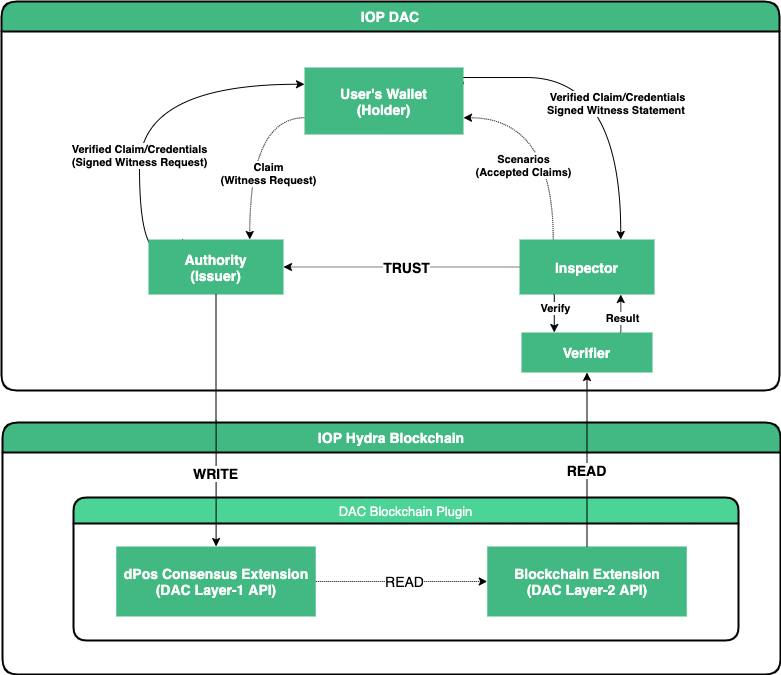
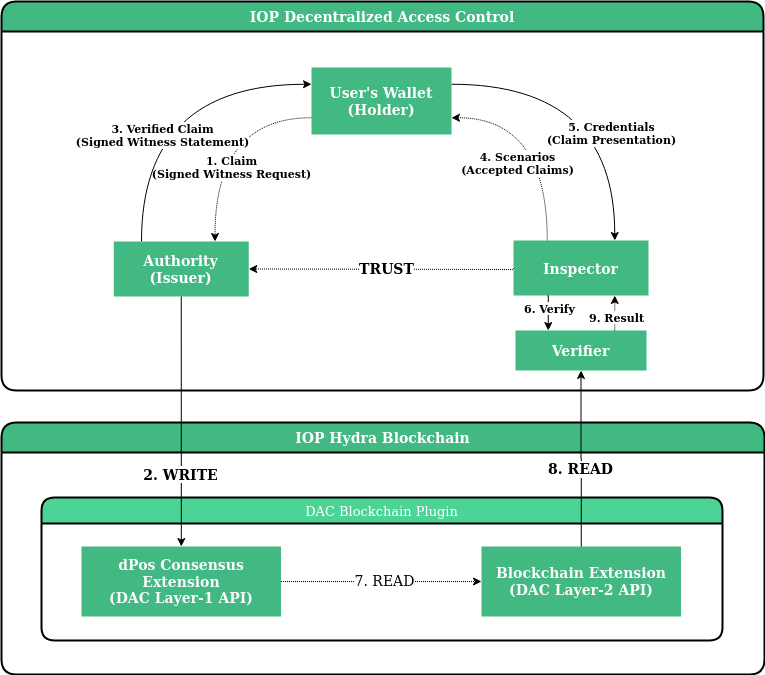
Fixed Dart comments/replaced img get Started

diff --git a/sdk/builders/flutter/dac_contract/test/main_test.dart b/sdk/builders/flutter/dac_contract/test/main_test.dart
@@ -10,6 +10,7 @@ import 'package:flutter_test/flutter_test.dart';
 import 'dart:convert';
 import 'dart:typed_data';
 
+// Import the necessary modules from our SDK
 import 'package:iop_sdk/crypto.dart';
 import 'package:iop_sdk/layer1.dart';
 import 'package:iop_sdk/layer2.dart';
@@ -19,26 +20,34 @@ import 'package:iop_sdk/network.dart';
 void main() {
   test('DAC Contract - Before Proof', () async {
 ///###FLUTTER_STEP_2
+// Select the testnet
 final network = Network.TestNet;
+
+// These details give access to a pre-generated account that pay the gas for the transaction
 final hydraGasPassphrase = 'scout try doll stuff cake welcome random taste load town clerk ostrich';
[1 lines of base64/hex data omitted]
 final unlockPassword = '+*7=_X8<3yH:v2@s';
 ///###FLUTTER_STEP_2
 
 ///###FLUTTER_STEP_3
-// YOU HAVE TO SAVE IT TO A SAFE PLACE!
+// YOU HAVE TO SAVE THE PASSPHRASE SECURELY!
 final phrase = Bip39('en').generatePhrase();
+
+// Creates a new vault based on the BIP39 passphrase, password and unlock password
 final vault = Vault.create(
   phrase,
-  '8qjaX^UNAafDL@!#', // this is for plausible deniability
-  unlockPassword,
+  '8qjaX^UNAafDL@!#', // The 25th word of the passphrase
+  unlockPassword,     // Encrypts the master seed
+
 );
 ///###FLUTTER_STEP_3
 
 ///###FLUTTER_STEP_4
+// Initialize the Morpheus plugin on your personal vault:
 MorpheusPlugin.rewind(vault, unlockPassword);
 final morpheusPlugin = MorpheusPlugin.get(vault);
 
+// Selects the first DID
 final did = morpheusPlugin.public.personas.did(0);  // you are going to use the first DID
 print('Using DID: ${did.toString()}');
 ///###FLUTTER_STEP_4
@@ -48,13 +57,18 @@ if(did == null) {
 }
 
 ///###FLUTTER_STEP_5
+// Acquire the default key
 final keyId = did.defaultKeyId(); // acquire the default key
+
+// The contract details
 final contractStr = 'A long legal document, e.g. a contract with all details';
 final contractBytes = Uint8List.fromList(utf8.encode(contractStr)).buffer.asByteData();
+
+// Acquire the plugin's private interface that provides you the sign interface
 final morpheusPrivate = morpheusPlugin.private(unlockPassword); // acquire the plugin's private interface that provides you the sign interface
 
+// The signed contract, which you need to store securely!
 final signedContract = morpheusPrivate.signDidOperations(keyId, contractBytes); // YOU NEED TO SAVE IT TO A SAFE PLACE!
-
 final signedContractJson = <String, dynamic>{
   'content': utf8.decode(signedContract.content.content.buffer.asUint8List()), // you must use this Buffer wrapper at the moment, we will improve in later releases,
   'publicKey': signedContract.signature.publicKey.value,
@@ -64,8 +78,9 @@ print('Signed contract: ${stringifyJson(signedContractJson)}');
 ///###FLUTTER_STEP_5
 
 ///###FLUTTER_STEP_6
+// The beforeProof (a.k.a. Proof of Existence) is generated by hashing the signed contract
 final beforeProof = digestJson(signedContractJson);
-print('Before proof: ${beforeProof.value}');
+print('Proof of Existence: ${beforeProof.value}');
 ///###FLUTTER_STEP_6
 
 if(beforeProof == null) {
@@ -73,41 +88,44 @@ if(beforeProof == null) {
 }
 
 ///###FLUTTER_STEP_7
-final opAttempts = OperationAttemptsBuilder()  // let's create our operation attempts data structure
+// Let's create our operation attempts data structure
+final opAttempts = OperationAttemptsBuilder()
   .registerBeforeProof(beforeProof)
   .getAttempts();
 
-// let's initialize our layer-1 API
+// Let's initialize our layer-1 API
 final layer1Api = Layer1Api(network);
 
-// let's query and then increment the current nonce of the owner of the tx fee
+// Let's query and then increment the current nonce of the owner of the tx fee
 int nonce = await layer1Api.getWalletNonce(hydraGasPublicKey);
 nonce = nonce + 1;
 
-// and now you are ready to send it
+// Now you are ready to send the transaction
 final txId = await layer1Api.sendMorpheusTxWithPassphrase(opAttempts, hydraGasPassphrase, nonce: nonce);
 print('Transaction ID: $txId');
 ///###FLUTTER_STEP_7
 
 ///###FLUTTER_STEP_8
+// Block confirmation time
 await Future.delayed(Duration(seconds: 12));  // it'll be included in the SDK Soon in 2020
 
-// layer-1 transaction must be confirmed
+// Layer-1 transaction must be confirmed
 final txStatus = await layer1Api.getTxnStatus(txId);
 print('Tx status: ${json.encode(txStatus.value.toJson())}');  // the SDK uses optional's Optional result
 
-// now you can query from the layer-2 API as well!
+// Let's initialize the layer-2 API to query the transaction status
 final layer2Api = Layer2Api(network);
 final dacTxStatus = await layer2Api.getTxnStatus(txId);
 print('DAC Tx status: ${dacTxStatus.value}');  // the SDK uses optional's Optional result
 ///###FLUTTER_STEP_8
 
 ///###FLUTTER_STEP_9
-// we assume here that signedContract is in scope and available
+// We assume that signedContract is in scope and available
 final expectedContentId = digestJson(signedContractJson);
 ///###FLUTTER_STEP_9
 
 ///###FLUTTER_STEP_10
+// Query the blockchain for the hash of the signed contract (Proof of Existence)
 final history = await layer2Api.getBeforeProofHistory(expectedContentId);
 print('Proof history: ${json.encode(history.toJson())}');
 ///###FLUTTER_STEP_10

diff --git a/sdk/builders/ts/dac_contract/src/main.ts b/sdk/builders/ts/dac_contract/src/main.ts
@@ -1,4 +1,5 @@
 ///###TS_STEP_1
+// Import the necessary modules from our SDK
 import { Crypto, Layer1, Layer2, Network } from '@internet-of-people/sdk';
 ///###TS_STEP_1
 
@@ -16,16 +17,16 @@ export const unlockPassword = '+*7=_X8<3yH:v2@s';
 // YOU HAVE TO SAVE THE PASSPHRASE SECURELY!
 const phrase = new Crypto.Bip39('en').generate().phrase;
 
-// Creates a new vault based on the BIP39 passphrase, password and unlock password.
+// Creates a new vault based on the BIP39 passphrase, password and unlock password
 const vault = Crypto.Vault.create(
   phrase,
-  '8qjaX^UNAafDL@!#',
-  unlockPassword,
+  '8qjaX^UNAafDL@!#',   // The 25th word of the passphrase
+  unlockPassword,       // Encrypts the master seed
 );
 ///###TS_STEP_3
 
 ///###TS_STEP_4
-// Initialize and get the Morpheus plugin:
+// Initialize the Morpheus plugin on your personal vault:
 Crypto.MorpheusPlugin.rewind(vault, unlockPassword);
 const morpheus = Crypto.MorpheusPlugin.get(vault);
 
@@ -61,7 +62,7 @@ console.log("Signed contract:", JSON.stringify({
 ///###TS_STEP_6
 // The beforeProof (a.k.a. Proof of Existence) is generated by hashing the signed contract
 const beforeProof = Crypto.digestJson(signedContract);
-console.log("Before proof:", beforeProof);
+console.log("Proof of Existence:", beforeProof);
 ///###TS_STEP_6
 
 if(!beforeProof) {
@@ -100,7 +101,7 @@ await waitUntil12Sec();
 let txStatus = await layer1Api.getTxnStatus(txId);
 console.log("Tx status:", txStatus.get());
 
-// Now you can query from the layer-2 API as well!
+// Let's initialize the layer-2 API to query the transaction status
 const layer2Api = await Layer2.createApi(network);
 let dacTxStatus = await layer2Api.getTxnStatus(txId);
 console.log("DAC Tx status:", dacTxStatus.get());
@@ -112,6 +113,7 @@ const expectedContentId = Crypto.digestJson(signedContract);
 ///###TS_STEP_9
 
 ///###TS_STEP_10
+// Query the blockchain for the hash of the signed contract (Proof of Existence)
 const history = await layer2Api.getBeforeProofHistory(expectedContentId);
 console.log("Proof history:", history);
 ///###TS_STEP_10

diff --git a/sdk/builders/flutter/send_hyd/test/main_test.dart b/sdk/builders/flutter/send_hyd/test/main_test.dart
@@ -8,6 +8,7 @@
 import 'package:flutter_test/flutter_test.dart';
 
 ///###FLUTTER_STEP_1
+// Import the necessary modules from our SDK
 import 'package:iop_sdk/layer1.dart';
 import 'package:iop_sdk/network.dart';
 ///###FLUTTER_STEP_1
@@ -15,15 +16,22 @@ import 'package:iop_sdk/network.dart';
 void main() {
   test('Sending Hydra', () async {
 ///###FLUTTER_STEP_2
+// Select the testnet
 final network = Network.TestNet;
-final targetAddress = 'tjseecxRmob5qBS2T3qc8frXDKz3YUGB8J'; // genesis
+
+// Gives access to a pre-generated wallet on the testnet
 final walletPassphrase = 'scout try doll stuff cake welcome random taste load town clerk ostrich';
+
+// The genesis address
+final targetAddress = 'tjseecxRmob5qBS2T3qc8frXDKz3YUGB8J'; // genesis
 ///###FLUTTER_STEP_2
 
 ///###FLUTTER_STEP_3
+// Return an api that can interact with the hydra blockchain
 final layer1Api = Layer1Api(network);
-final amount = 1e8 ~/ 10;
 
+// Sends a hydra transaction using a passphrase
+final amount = 1e8 ~/ 10;
 final txId = await layer1Api.sendTransferTxWithPassphrase(
   walletPassphrase,
   targetAddress,
@@ -37,6 +45,7 @@ if(txId == null) {
 }
 
 ///###FLUTTER_STEP_3
+// Prints the transaction ID
 print('Transaction ID: $txId');
 ///###FLUTTER_STEP_3
   });

diff --git a/sdk/builders/ts/create_vault/src/main.ts b/sdk/builders/ts/create_vault/src/main.ts
@@ -1,4 +1,5 @@
 ///###TS_STEP_1
+//Import the Crypto module from our SDK
 import { Crypto } from '@internet-of-people/sdk';
 ///###TS_STEP_1
 
@@ -6,6 +7,7 @@ import { Crypto } from '@internet-of-people/sdk';
 // YOU HAVE TO SAVE THE PASSPHRASE SECURELY!
 const phrase = new Crypto.Bip39('en').generate().phrase;
 
+// Creates a new vault using a passphrase, password and unlock password, which encrypts/decrypts the seed
 const vault = Crypto.Vault.create(
   phrase,
   '8qjaX^UNAafDL@!#',
@@ -14,13 +16,16 @@ const vault = Crypto.Vault.create(
 ///###TS_STEP_2
 
 ///###TS_STEP_3
+// Necessary import to write to the file system
 import { promises as fsAsync } from 'fs';
 
+// Saves the encrypted seed of the vault.
 const serializedState = JSON.stringify(vault.save());
 ///###TS_STEP_3
 
 (async () => {
 ///###TS_STEP_3
+// Writes the state to a file
 await fsAsync.writeFile(
   'tutorial_vault.state',
   serializedState,
@@ -29,11 +34,11 @@ await fsAsync.writeFile(
 ///###TS_STEP_3
 
 ///###TS_STEP_4
+// Reads and loads the vault from the saved file
 const backup = await fsAsync.readFile(
     'tutorial_vault.state',
     { encoding: 'utf-8' },
 );
-
 const loadedVault = Crypto.Vault.load(JSON.parse(backup));
 ///###TS_STEP_4
 

diff --git a/sdk/builders/flutter/create_vault/test/main_test.dart b/sdk/builders/flutter/create_vault/test/main_test.dart
@@ -9,6 +9,8 @@ import 'package:flutter_test/flutter_test.dart';
 
 ///###FLUTTER_STEP_1
 import 'dart:io';
+
+//Import the Crypto module from our SDK
 import 'package:iop_sdk/crypto.dart';
 ///###FLUTTER_STEP_1
 
@@ -16,8 +18,10 @@ import 'package:iop_sdk/crypto.dart';
 void main() {
   test('Create Vault', () async {
 ///###FLUTTER_STEP_2
-// YOU HAVE TO SAVE IT TO A SAFE PLACE!
+// YOU HAVE TO SAVE THE PASSPHRASE SECURELY!
 final phrase = Bip39('en').generatePhrase();
+
+// Creates a new vault using a passphrase, password and unlock password, which encrypts/decrypts the seed
 final vault = Vault.create(
   phrase,
   '8qjaX^UNAafDL@!#',
@@ -26,7 +30,10 @@ final vault = Vault.create(
 ///###FLUTTER_STEP_2
 
 ///###FLUTTER_STEP_3
+// Saves the encrypted seed of the vault.
 final serializedState = vault.save();
+
+// Writes the state to a file
 await File('tutorial_vault.state').writeAsString(
   serializedState,
   flush: true,
@@ -34,6 +41,7 @@ await File('tutorial_vault.state').writeAsString(
 ///###FLUTTER_STEP_3
 
 ///###FLUTTER_STEP_4
+// Reads and loads the vault from the saved file
 final backup = await File('tutorial_vault.state').readAsString();
 final loadedVault = Vault.load(backup);
 ///###FLUTTER_STEP_4

diff --git a/sdk/builders/ts/send_hyd/src/main.ts b/sdk/builders/ts/send_hyd/src/main.ts
@@ -1,17 +1,26 @@
 ///###TS_STEP_1
+// Import the necessary modules from our SDK
 import { Layer1, Network } from '@internet-of-people/sdk';
 ///###TS_STEP_1
 
 ///###TS_STEP_2
+// Select the testnet
 export const network = Network.Testnet;
+
+// Gives access to a pre-generated wallet on the testnet
 export const walletPassphrase = "scout try doll stuff cake welcome random taste load town clerk ostrich";
-export const targetAddress = "tjseecxRmob5qBS2T3qc8frXDKz3YUGB8J"; // genesis
+
+// The address to which the funds are sent to
+export const targetAddress = "tjseecxRmob5qBS2T3qc8frXDKz3YUGB8J"; 
 ///###TS_STEP_2
 
 (async () => {
 
 ///###TS_STEP_3
+// Return an api that can interact with the hydra blockchain
 const layer1Api = await Layer1.createApi(network);
+
+// Sends a hydra transaction using a passphrase
 const amount = 1e8 / 10; // 0.1 HYD
 const txId = await layer1Api.sendTransferTxWithPassphrase(walletPassphrase, targetAddress, BigInt(amount)); 
 ///###TS_STEP_3
@@ -19,6 +28,7 @@ if(!txId) {
     throw new Error('TX could not be sent');
 }
 ///###TS_STEP_3
+// Prints the transaction ID
 console.log('Transaction ID: ', txId);
 ///###TS_STEP_3
 
